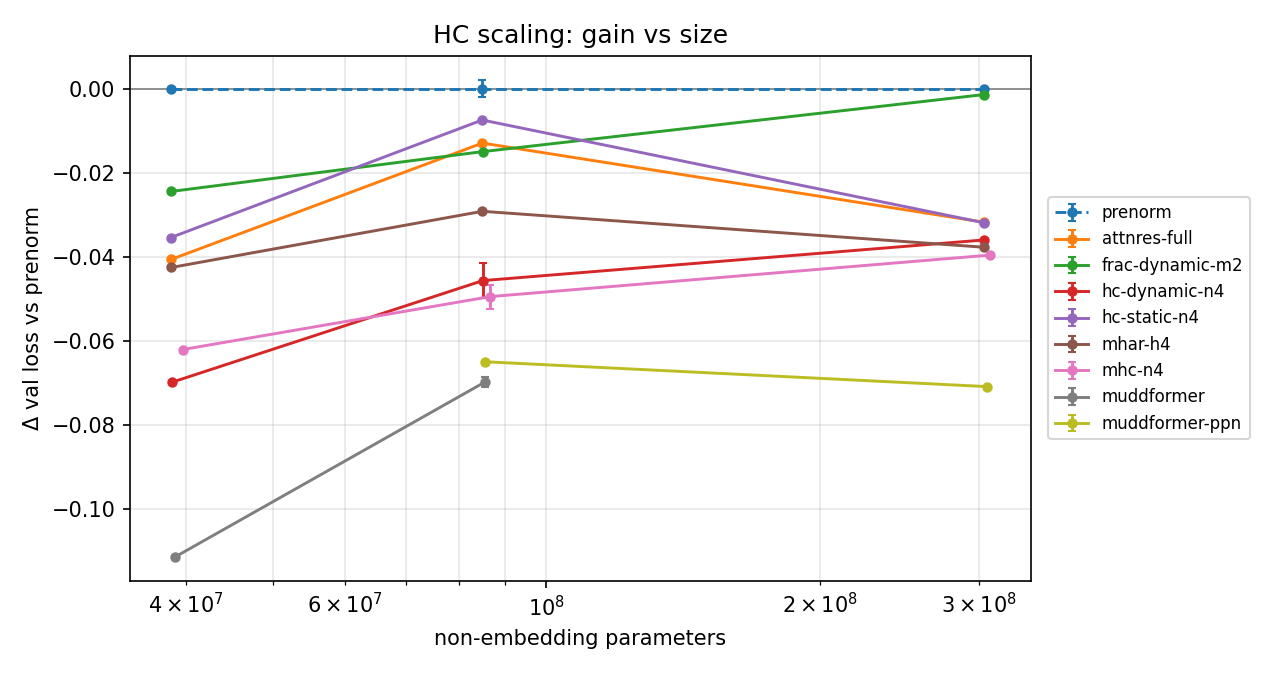
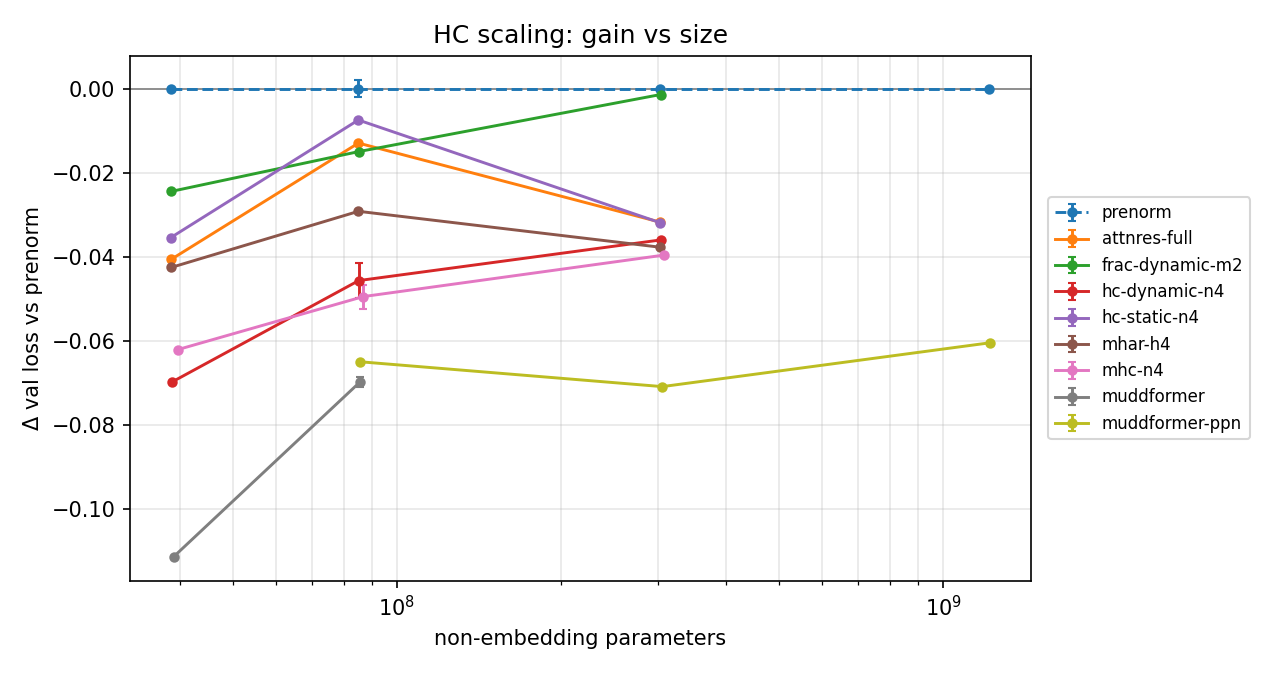
results: XL (1.21B) prenorm + MUDD-ppn (-0.061); plot/table extended to XL

diff --git a/scripts/plot_scaling_gpu.py b/scripts/plot_scaling_gpu.py
@@ -36,7 +36,8 @@ METHODS = [
     (("hc-static-n4",), "HC static (n=4)", "#008300", "P", "-"),
     (("frac-dynamic-m2",), "Frac (m=2)", "#4a3aa7", "X", "-"),
 ]
-SIZES = [("s", "S\n38.5M · 12 layers"), ("m", "M\n85M · 12 layers"), ("l", "L\n304M · 24 layers")]
+SIZES = [("s", "S\n38.5M\n12 layers"), ("m", "M\n85M\n12 layers"), ("l", "L\n304M\n24 layers"),
+         ("xl", "XL\n1.21B\n24 layers")]
 SURFACE, INK, INK2, GRID = "#fcfcfb", "#1f1f1e", "#5f5e5a", "#e6e5e0"
 
 
@@ -84,8 +85,10 @@ def main():
             if (s, "prenorm") in data}
     base_tps = {s: st.mean(r["tok_per_s"] for r in data[(s, "prenorm")]) for s in base}
     # x = real non-embedding parameter count of the pre-norm model at each size (log axis)
-    xpos = {s: data[(s, "prenorm")][0]["params_non_embedding"] for s, _ in SIZES}
-    x_lo, x_hi = xpos["s"] / 1.22, xpos["l"] * 1.22
+    SZ = [(s, lab) for s, lab in SIZES if (s, "prenorm") in data]  # sizes run so far
+    xpos = {s: data[(s, "prenorm")][0]["params_non_embedding"] for s, _ in SZ}
+    last = SZ[-1][0]
+    x_lo, x_hi = xpos["s"] / 1.22, xpos[last] * 1.22
 
     # ---- gain vs size -------------------------------------------------------
     fig, ax = plt.subplots(figsize=(11, 6.4), facecolor=SURFACE)
@@ -96,13 +99,13 @@ def main():
     # depth changes between M and L: mark it, since it confounds the M→L step
     mid = (xpos["m"] * xpos["l"]) ** 0.5
     ax.axvspan(mid, x_hi, color="#efeee9", zorder=0)
-    ax.text((mid * x_hi) ** 0.5, 0.004, "depth 12 → 24 layers", color=INK2, fontsize=8.5,
+    ax.text((mid * x_hi) ** 0.5, 0.004, "24 layers", color=INK2, fontsize=8.5,
             va="bottom", ha="center")
 
     ends, handles = [], []
     for keys, label, color, marker, ls in METHODS:
         pts = []
-        for s, _ in SIZES:
+        for s, _ in SZ:
             runs = sum((data.get((s, k), []) for k in keys), [])
             if not runs or s not in base:
                 continue
@@ -116,28 +119,29 @@ def main():
                     elinewidth=1.2, capsize=3, zorder=4)
         handles.append(matplotlib.lines.Line2D([], [], color=color, ls=ls, lw=2, marker=marker,
                                                ms=6, mec=color, label=label))
-        if xs[-1] == xpos["l"]:
-            ends.append((ys[-1], label, color))
+        if xs[-1] == xpos["l"] or xs[-1] == xpos[last]:
+            ends.append((ys[-1], label, color, xs[-1]))
     # direct labels at the L end (values + names), spread to avoid collisions
     ly = spread([e[0] for e in ends], 0.0052)
     trans = matplotlib.transforms.blended_transform_factory(ax.transAxes, ax.transData)
-    for (y, label, color), y2 in zip(ends, ly):
-        ax.annotate(f"{y:+.3f}  {label}", xy=(xpos["l"], y), xytext=(1.04, y2),
+    for (y, label, color, xe), y2 in zip(ends, ly):
+        tag = "" if xe == xpos[last] else f"  (at {[l for s, l in SZ if xpos[s] == xe][0].split(chr(10))[0]})"
+        ax.annotate(f"{y:+.3f}  {label}{tag}", xy=(xe, y), xytext=(1.04, y2),
                     textcoords=trans, fontsize=8.5, color=INK, va="center", annotation_clip=False,
                     arrowprops=dict(arrowstyle="-", color=color, lw=1, shrinkA=2, shrinkB=5))
 
     ax.set_xlim(x_lo, x_hi)
-    ax.set_xticks([xpos[s] for s, _ in SIZES], [lab for _, lab in SIZES], color=INK)
+    ax.set_xticks([xpos[s] for s, _ in SZ], [lab for _, lab in SZ], color=INK)
     ax.xaxis.set_minor_locator(matplotlib.ticker.NullLocator())
     ax.set_xlabel("non-embedding parameters (log scale)", color=INK2, fontsize=9)
     ax.set_ylabel("Δ validation loss vs pre-norm  (lower is better)", color=INK, fontsize=10)
-    ax.set_title("Gain over pre-norm at three model sizes (FineWeb-Edu, ~20 tokens/param)",
+    ax.set_title("Gain over pre-norm vs model size (FineWeb-Edu, ~20 tokens/param)",
                  color=INK, fontsize=11.5, loc="left", pad=12)
     ax.set_ylim(-0.122, 0.012)
     fig.legend(handles=handles, loc="lower center", bbox_to_anchor=(0.5, 0.035), fontsize=8,
                frameon=False, ncol=4, labelcolor=INK, handlelength=3.2)
     fig.text(0.01, 0.01, "Error bars: std over seeds where >1 seed (M: pre-norm, mHC, HC dynamic ×3; "
-             "MUDD ×2). L: 1 seed each. Plain MUDDFormer diverged at L.",
+             "MUDD ×2). L, XL: 1 seed each. Plain MUDDFormer diverged at L. XL in progress.",
              fontsize=7.5, color=INK2)
     fig.tight_layout(rect=(0, 0.13, 0.8, 1))  # right margin: direct labels; bottom: legend
     fig.savefig(os.path.join(args.out, "gain_vs_size.png"), dpi=160, facecolor=SURFACE)

diff --git a/README.md b/README.md
@@ -29,7 +29,7 @@ same function as the pre-norm baseline. This is checked by
 
 ## Results
 
-### GPU scaling (8×H100): HC family and friends from 38M to 300M
+### GPU scaling (8×H100): HC family and friends from 38M to 1.2B
 
 FineWeb-Edu, GPT-2 tokenizer, ~20 training tokens per non-embedding parameter, global batch 262K
 tokens, WSD schedule, bf16 + `torch.compile`, one variant per GPU. Configs: `configs/scaling_gpu/{s,m}.yaml`,
@@ -40,7 +40,7 @@ variants: `configs/variants_gpu.yaml`.
 | S | 12L × 512 | 38.5M | 0.79B |
 | M | 12L × 768 | 85.0M | 1.70B |
 | L | 24L × 1024 | 303.6M | 6.03B (8-GPU DDP per variant) |
-| XL | 24L × 2048 | 1.21B | 24.3B (8-GPU DDP per variant) — **running** |
+| XL | 24L × 2048 | 1.21B | 24.3B (8-GPU DDP per variant) — **in progress** (2/8 variants done) |
 
 **Tokens per parameter (TPP).** Every GPU size is trained at about 20 tokens per *non-embedding*
 parameter, roughly Chinchilla-optimal. Input and output embeddings are tied, so counting the
@@ -60,18 +60,18 @@ so they are heavily undertrained. This is the main reason they do not agree with
 Row `prenorm` shows its validation loss; the other rows show Δ vs pre-norm at the same size (negative = better).
 Where there are several seeds the table gives mean ± std (pre-norm at M: 3 seeds, std 0.002).
 
-| variant | s | m | l |
-|---|---|---|---|
-| prenorm | 3.4439 | 3.1993 ± 0.0021 | 2.8405 |
-| attnres-full | -0.0407 | -0.0130 | -0.0318 |
-| frac-dynamic-m2 | -0.0245 | -0.0150 | -0.0014 |
-| hc-dynamic-n4 | -0.0699 | -0.0457 ± 0.0042 (n=3) | -0.0360 |
-| hc-static-n4 | -0.0355 | -0.0075 | -0.0319 |
-| mhar-h4 | -0.0426 | -0.0292 | -0.0378 |
-| mhc-n4 | -0.0621 | -0.0495 ± 0.0029 (n=3) | -0.0396 |
-| muddformer | -0.1115 | -0.0698 ± 0.0011 (n=2) | — |
-| muddformer-ppn | — | -0.0650 | -0.0710 |
-| *non-emb params* | 38.5M | 85.0M | 303.6M |
+| variant | s | m | l | xl |
+|---|---|---|---|---|
+| prenorm | 3.4439 | 3.1993 ± 0.0021 | 2.8405 | 2.4751 |
+| attnres-full | -0.0407 | -0.0130 | -0.0318 | — |
+| frac-dynamic-m2 | -0.0245 | -0.0150 | -0.0014 | — |
+| hc-dynamic-n4 | -0.0699 | -0.0457 ± 0.0042 (n=3) | -0.0360 | — |
+| hc-static-n4 | -0.0355 | -0.0075 | -0.0319 | — |
+| mhar-h4 | -0.0426 | -0.0292 | -0.0378 | — |
+| mhc-n4 | -0.0621 | -0.0495 ± 0.0029 (n=3) | -0.0396 | — |
+| muddformer | -0.1115 | -0.0698 ± 0.0011 (n=2) | — | — |
+| muddformer-ppn | — | -0.0650 | -0.0710 | -0.0605 |
+| *non-emb params* | 38.5M | 85.0M | 303.6M | 1214.4M |
 
 At L every variant is a single seed. Plain MUDDFormer diverged at L, so the L entry for MUDDFormer is
 `muddformer-ppn` (with PrePostDANorm), which was also run at M for a like-for-like comparison.
@@ -89,6 +89,10 @@ What the GPU runs show:
   M to L doubles depth as well as width. Every method here routes information *across depth*,
   so read the M → L column as "bigger **and** deeper", not as pure size scaling.
 * **Every variant beats pre-norm at every size**, except Frac at L (−0.001, i.e. no gain).
+* **XL (1.21B, 24.3B tokens; in progress).** Same 24 layers as L, so L → XL is a pure width
+  step. MUDDFormer + PrePostDANorm finishes at **−0.061** (2.4146 vs 2.4751). The gap was
+  −0.068 to −0.066 through the constant-LR phase and narrowed during the WSD cooldown. The other
+  variants are still training.
 * **MUDDFormer is the best variant at every size.** −0.112 at S and −0.070 ± 0.001 at M (plain),
   then −0.065 at M and **−0.071 at L** with PrePostDANorm. The like-for-like ppn comparison M → L
   is flat to slightly growing. Plain MUDDFormer **diverged at 24 layers**: gradient norms spiked

diff --git a/results/scaling_gpu/scaling.md b/results/scaling_gpu/scaling.md
@@ -1,14 +1,14 @@
 Row `prenorm` = its val loss; other rows = Δ vs prenorm at the same width.
 
-| variant | s | m | l |
-|---|---|---|---|
-| prenorm | 3.4439 | 3.1993 ± 0.0021 | 2.8405 |
-| attnres-full | -0.0407 | -0.0130 | -0.0318 |
-| frac-dynamic-m2 | -0.0245 | -0.0150 | -0.0014 |
-| hc-dynamic-n4 | -0.0699 | -0.0457 ± 0.0042 (n=3) | -0.0360 |
-| hc-static-n4 | -0.0355 | -0.0075 | -0.0319 |
-| mhar-h4 | -0.0426 | -0.0292 | -0.0378 |
-| mhc-n4 | -0.0621 | -0.0495 ± 0.0029 (n=3) | -0.0396 |
-| muddformer | -0.1115 | -0.0698 ± 0.0011 (n=2) | — |
-| muddformer-ppn | — | -0.0650 | -0.0710 |
-| *non-emb params* | 38.5M | 85.0M | 303.6M |
+| variant | s | m | l | xl |
+|---|---|---|---|---|
+| prenorm | 3.4439 | 3.1993 ± 0.0021 | 2.8405 | 2.4751 |
+| attnres-full | -0.0407 | -0.0130 | -0.0318 | — |
+| frac-dynamic-m2 | -0.0245 | -0.0150 | -0.0014 | — |
+| hc-dynamic-n4 | -0.0699 | -0.0457 ± 0.0042 (n=3) | -0.0360 | — |
+| hc-static-n4 | -0.0355 | -0.0075 | -0.0319 | — |
+| mhar-h4 | -0.0426 | -0.0292 | -0.0378 | — |
+| mhc-n4 | -0.0621 | -0.0495 ± 0.0029 (n=3) | -0.0396 | — |
+| muddformer | -0.1115 | -0.0698 ± 0.0011 (n=2) | — | — |
+| muddformer-ppn | — | -0.0650 | -0.0710 | -0.0605 |
+| *non-emb params* | 38.5M | 85.0M | 303.6M | 1214.4M |
